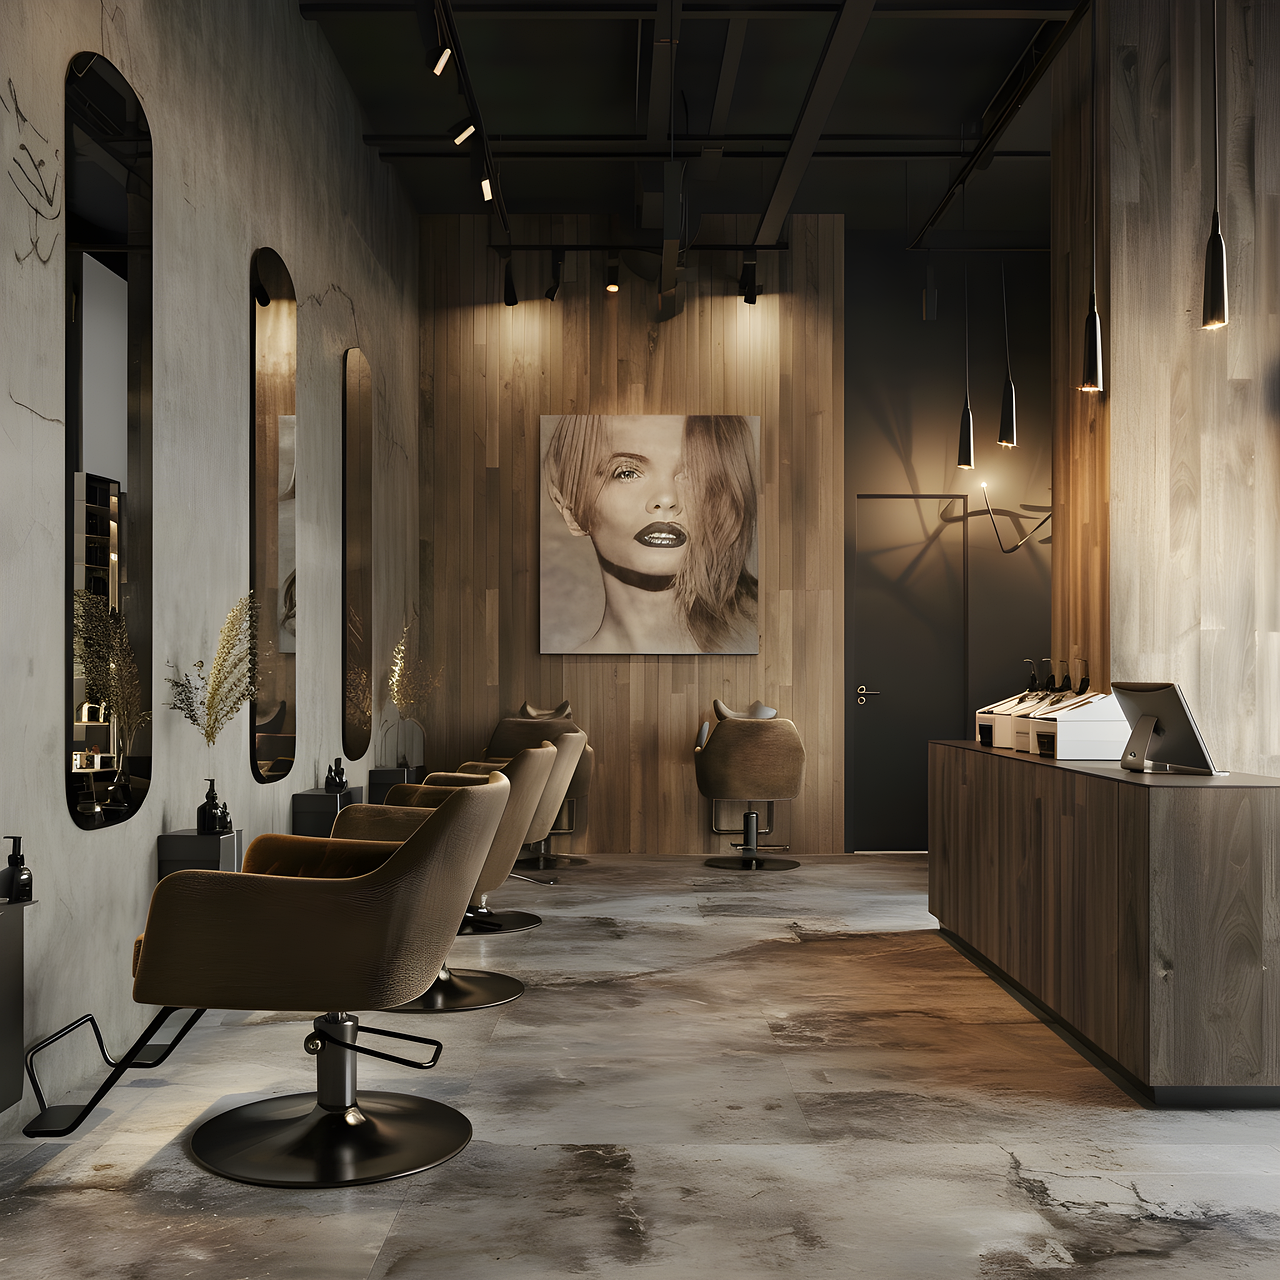
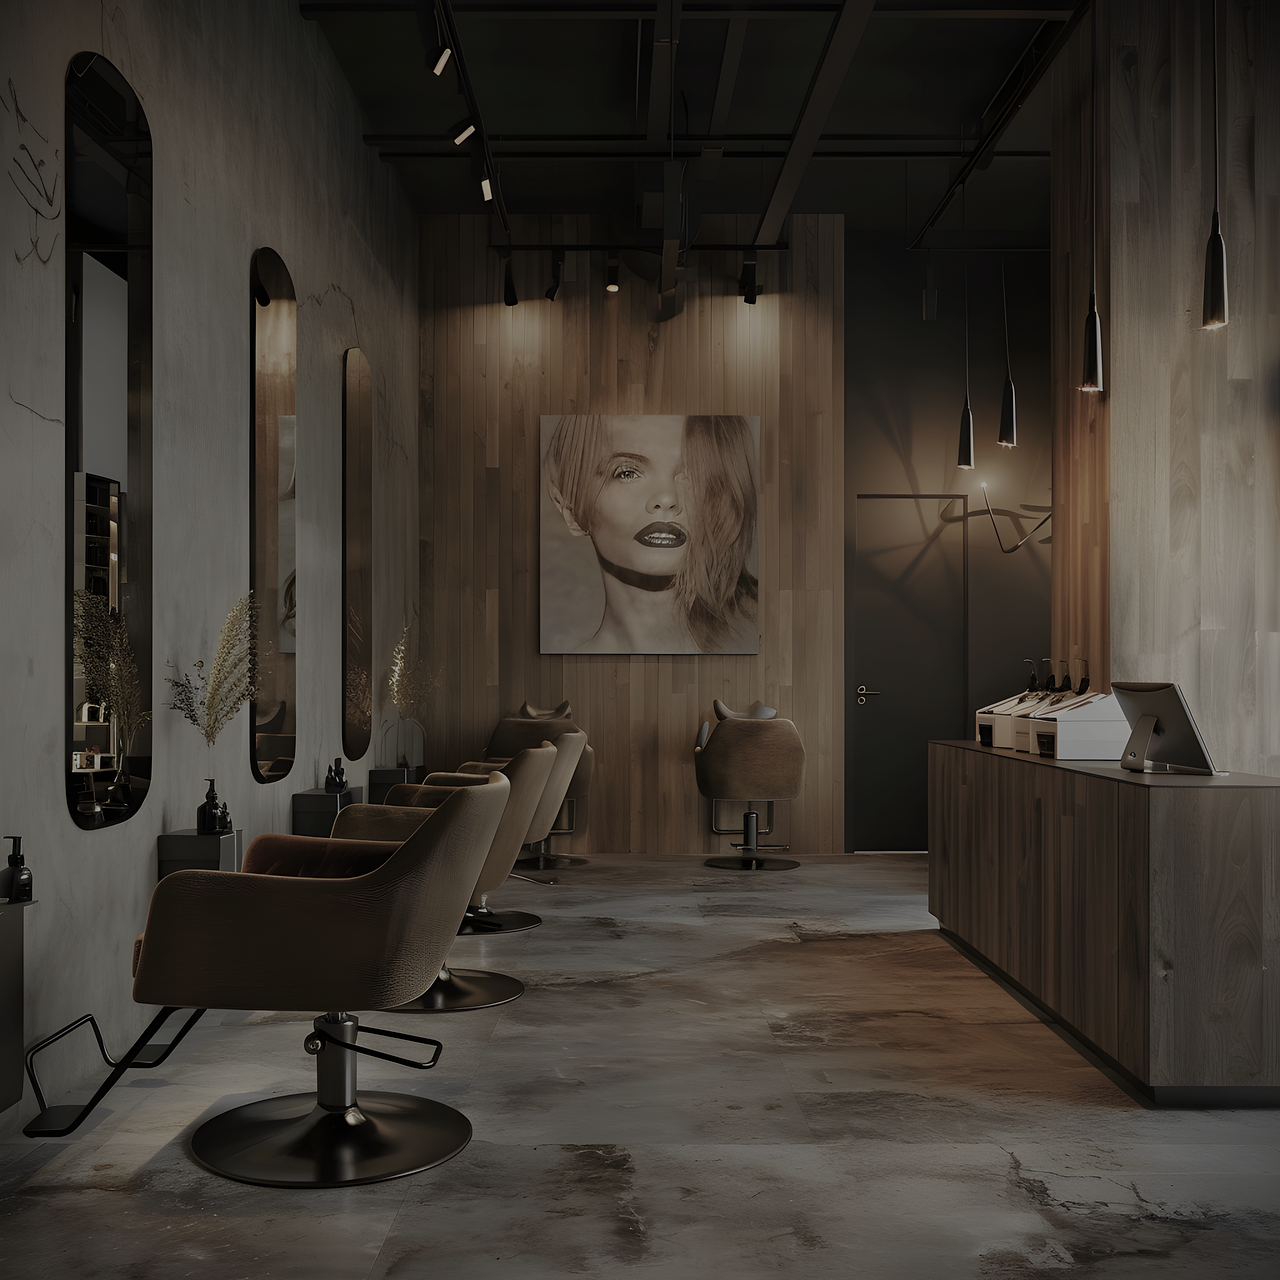
vecka 14
gjorde nästan klar domkyrakan

diff --git a/css/style.css b/css/style.css
@@ -17,7 +17,6 @@ header{
     background-color:rgb(0, 0, 0,0);
     height: 6vh;
     
-    top: 0;
     z-index: 9;
     position:fixed;
     transition: background-color 0.3s ease-in-out;
@@ -40,7 +39,7 @@ header{
     font-size:min(30vw,15vh);
     font-family:Verdana, Geneva, Tahoma, sans-serif;
 }
-.title > *{margin:0px;}
+.title > *{margin:0px; color: rgb(240, 248, 255,0.5)}
 .title > .placename {position: absolute; margin: auto auto auto 25vw; font-size: 7vw;}
 
 .menu{
@@ -64,10 +63,21 @@ header{
     background: rgb(0, 0, 0,0.5);
 }
 
-p{font-family:'inter';}
+p{font-family:'inter'; color: rgb(235, 220, 205);}
 a{color: inherit;text-decoration: none;}
 hr{width: 92vw; border:none;border-top: burlywood dashed 2px;}
 
+.oppentider{
+    grid-area: opp;
+    background-color: #2c2c2c;
+    display: flex;
+    flex-direction: column;
+    align-items: center;
+    justify-content: space-between;
+    height:auto;
+}
+.oppentider > .larger{margin: 0px;}
+.oppentider > div{display: flex; justify-content: space-between;}
 
 footer{
     grid-area: fot;
@@ -87,6 +97,7 @@ footer{
 .larger{
     font-weight: bolder;
     display: block;
+    text-align: center;
 }
 
 .darkbg{
@@ -118,7 +129,7 @@ footer{
     "tit"
     "sal"
     "inf"
-    "tim"
+    "opp"
     "fot";
 }
 
@@ -132,7 +143,6 @@ footer{
 .salong{
     background-position: center;
     background-size: cover;
-    color: antiquewhite;
     display: flex;
     align-items: center;
     flex-direction: column;
@@ -165,22 +175,9 @@ footer{
     width: 30vw;
     margin: 0vw 3vw 0vw 3vw;
     font-size: 15px;
-    color: rgb(235, 220, 205);
 }
 
 
-#indexoppentider{
-    color: rgb(235, 220, 205);
-    grid-area: tim;
-    background-color: #2c2c2c;
-    display: flex;
-    flex-direction: column;
-    align-items: center;
-    justify-content: space-between;
-    height:auto;
-}
-#indexoppentider > .larger{margin: 0px;}
-#indexoppentider > div{display: flex; justify-content: space-between;}
 
 
 /* domkyrkan */
@@ -191,33 +188,43 @@ footer{
     "tit"
     "pinf"
     "pep"
+    "hit"
+    "opp"
     "fot";
     font-family:Verdana, Geneva, Tahoma, sans-serif;
 }
 
 #domkyrkantitle{background-image: url(/img/iffany-hairdressers-8848868_1280.png);}
+#domkyrkantitle > .placename {position: absolute; }
 
 .platsinfo{
     grid-area: pinf;
     display: flex;
     align-items: center;
-    justify-content: space-evenly;
-    color:rgb(235, 220, 205);
+    justify-content: space-between;
     height: auto;
 }
-
-
+.platsinfo > img{box-shadow: rgba(0, 0, 0, 0.35) 0px 5px 15px;}
+.platsinfo > div{display:flex; flex-direction: column; align-items: center; font-size: 13px;}
+.platsinfo > div > .larger{margin-bottom: 5px;}
+.platsinfo > div > div{text-align: center;}
+.platsinfo > div > div > p{font-size: 22px;}
+.platsinfo > div > div > div{display: flex; justify-content: space-between; margin-top: -30px;}
 
 .personer{
     grid-area: pep;
     background-color:#2c2c2c;
 }
 
-.personer > div{background-color: #4a4a4a; margin: 10px;height: 100px;}
-.personer > div > div {}
-.personer > div > img{}
+.hittahit{
+    grid-area: hit;
+}
 
 
+.hittahit > img{}
+.hittahit > div{}
+
+iframe{width: 30vw; height: 20vw; display: block;}
 
 
 /* ---MOBILE--- */
@@ -229,6 +236,7 @@ footer{
     .menubutton{display:block;}
     .menu{display: block;}
     .title{justify-content: center; height: 95vh;font-size: 3.7vw;align-items: center;}
+    .oppentider > div{font-size: 15px; width: 80vw;}
     
     
     /* INDEX */
@@ -239,20 +247,20 @@ footer{
     #indexinfobox > div > div{width: 90%;font-size: 15px;}
     #indexinfobox >div> img{width: 80vw; margin-top: 2.5vw;} /*images för indexinfo*/
     #flip{flex-direction: column;}
-    #indexoppentider > div{font-size: 15px; width: 80vw;}
     
     /* Domkyrkan */
-    #domkyrkantitle > .placename {position: absolute; margin: auto auto 4% auto; font-size: 10vw;}
+    #domkyrkantitle > .placename {margin: auto auto 4% auto; font-size: 10vw;}
     
-    .platsinfo{flex-direction: column; padding: 25vw 0px 10vw 0px;}
-    .platsinfo > img{width: 90vw; height: auto;}
-    .platsinfo > div{display:flex; flex-direction: column; align-items: center; width: 85vw; font-size: 13px;}
-    .platsinfo > div > .larger{margin-bottom: 5px;}
-    .platsinfo > div > div{width: 80vw; text-align: center;}
-    .platsinfo > div > div > p{font-size: 22px;}
-    .platsinfo > div > div > div{display: flex; justify-content: space-between; margin-top: -30px;}
-    
-    
+    .platsinfo{flex-direction: column; padding: 22vw 0px 10vw 0px;}
+    .platsinfo > img{width: 90vw; height: auto; box-shadow: rgba(0, 0, 0, 0.35) 0px 5px 15px;}
+    .platsinfo > div{width: 85vw;}
+    .platsinfo > div > div{width: 80vw;}    
+
+    .personer > div{background-color: #4a4a4a; width:min-content; margin: 15vw auto 15vw auto; padding: 2.5vw 0vh 2.5vw 0vh; display: flex;flex-direction: column; justify-content: space-between; align-items: center;}
+    .personer > div > div {width: 85vw; margin:0px 2vw 0px 2vw; font-size: 15px;}
+    .personer > div > img{width: 85vw;}
+
+
 }
 
 
@@ -266,6 +274,8 @@ footer{
     .title{height: 95vh;justify-content: center;align-items: center;}
     .title > p{font-size:25px;margin-top: -30px;}
     .title > *{margin-right: 55vw}
+    .oppentider > div{font-size:max(1vw,15px); width: 30vw;}
+    .oppentider > a >*{margin: 2.5vw 0px 0px 0px;}
     
     
     /* index */
@@ -275,19 +285,18 @@ footer{
     #indexinfobox>div{padding: 2.5vw 0vh 2.5vw 5vh;}
     #indexinfobox >div> img{width: 45vw;} /*images för indexinfo*/
     #flip{flex-direction: row-reverse;padding: 2.5vw 5vh 2.5vw 0vh !important;}
-    #indexoppentider > div{font-size:max(1vw,15px); width: 30vw;}
-    #indexoppentider > a >*{margin: 2.5vw 0px 0px 0px;}
 
     /* Domkyrkan */
-    #domkyrkantitle > .placename {position: absolute; margin: auto auto auto 25vw; font-size: 7vw;}
+    #domkyrkantitle > .placename {margin: auto auto auto 25vw; font-size: 7vw;}
     
-    .platsinfo{flex-direction: row;}
-    .platsinfo > img{width: 40vw; height: auto;}
-    .platsinfo > div{display:flex; flex-direction: column; align-items: center; width: 85vw; font-size: 13px;}
-    .platsinfo > div > .larger{margin-bottom: 5px;}
-    .platsinfo > div > div{width: 80vw; text-align: center;}
-    .platsinfo > div > div > p{font-size: 22px;}
-    .platsinfo > div > div > div{display: flex; justify-content: space-between; margin-top: -30px;}
+    .platsinfo{flex-direction: row; padding: 4vw 0px 4vw 0px;}
+    .platsinfo > img{width: auto; height: 30vw; margin-left: 4vw;}
+    .platsinfo > div{width:30vw; margin-right: 10vw}
+    .platsinfo > div > div{width: 100%;}
+
+    .personer > div{background-color: #4a4a4a; width:min-content; margin: 3vw auto 3vw auto; padding: 2.5vw 0vh 2.5vw 5vh; display: flex; justify-content: space-between;}
+    .personer > div > div {width: 25vw; margin:0px 2.5vw 0px 2.5vw; font-size: 15px;}
+    .personer > div > img{width: 35vw;}
 
 }
 

diff --git a/domkyrkan.html b/domkyrkan.html
@@ -26,7 +26,7 @@
     <section class="platsinfo">
         <img src="img/100683.jpg" alt="">
         <div>
-            <p class="larger">TOFA Domkyrkan</p><p>Lorem ipsum dolor sit  odio non perspiciatis veritatis magnam soluta temporibus officia deleniti placeat voluptatum nemo, aspernatur dolorum illo! Eum necessitatibus obcaecati quo totam aperiam minus animi porro soluta ducimus dolor adipisci est repellat, nesciunt deleniti sint facere fuga?</p>
+            <p class="larger">TOFA Domkyrkan</p><p>Lorem ipsum dolor sit amet consectetur adipisicing elit. Quos eos nostrum voluptates, nisi qui eveniet nobis id eum fuga ab aliquam similique quaerat, nemo vero, autem sunt accusantium iusto? Minus itaque id ipsam? Ex minima ratione ab hic. Sequi, ad!Lorem ipsum dolor sit  odio non perspiciatis veritatis magnam soluta temporibus officia deleniti placeat voluptatum nemo, aspernatur dolorum illo! Eum necessitatibus obcaecati quo totam aperiam minus animi porro soluta ducimus dolor adipisci est repellat, nesciunt deleniti sint facere fuga?</p>
             <div>
                 <p>Öppentider</p>
                 <div>
@@ -34,7 +34,7 @@
                 </div>
                 <p>Kontakta</p>
                 <div>
-                  <p>Telefon<br>Email</p> <p>&nbsp&nbsp&nbsp&nbsp&nbsp 076 035 75 75 <br><a href="">[email redacted]</a></p>
+                  <p>Telefon<br>Email</p> <p>&nbsp&nbsp&nbsp&nbsp&nbsp +46 76 035 78 78 <br><a href="">[email redacted]</a></p>
                 </div>
             </div>
             <a href=""><p class="button">boka tid</p></a>
@@ -43,27 +43,51 @@
     
     <section class="personer">
         <div>
-            <img src="" alt="">
-            <div>Karlson</div>
+            <img src="img/person1.jpg" alt="person som jobbar här">
+            <div><p class="larger">Katarina</p><p>Lorem ipsum dolor sit amet consectetur adipisicing elit. Aperiam molestiae cupiditate earum? Hic inventore perspiciatis adipisci autem dolor repudiandae tenetur fugiat veritatis aut. Nulla officiis ipsum obcaecati temporibus beatae quaerat in labore, itaque eum perspiciatis, eos doloribus, exercitationem qui hic corrupti ipsam error quod quis dicta eligendi eius voluptas cupiditate?</p></div>
         </div>
         <div>
-            <img src="" alt="">
-            <div>Katarina</div>
+            <img src="img/person2.jpg" alt="person som jobbar här">
+            <div><p class="larger">Karson</p><p>Lorem ipsum dolor sit amet consectetur adipisicing elit. Aperiam molestiae cupiditate earum? Hic inventore perspiciatis adipisci autem dolor repudiandae tenetur fugiat veritatis aut. Nulla officiis ipsum obcaecati temporibus beatae quaerat in labore, itaque eum perspiciatis, eos doloribus, exercitationem qui hic corrupti ipsam error quod quis dicta eligendi eius voluptas cupiditate?</p></div>
         </div>
         <div>
-            <img src="" alt="">
-            <div>Chalot</div>
+            <img src="img/person3.jpg" alt="person som jobbar här">
+            <div><p class="larger">Chalot</p><p>Lorem ipsum dolor sit amet consectetur adipisicing elit. Aperiam molestiae cupiditate earum? Hic inventore perspiciatis adipisci autem dolor repudiandae tenetur fugiat veritatis aut. Nulla officiis ipsum obcaecati temporibus beatae quaerat in labore, itaque eum perspiciatis, eos doloribus, exercitationem qui hic corrupti ipsam error quod quis dicta eligendi eius voluptas cupiditate?</p></div>
         </div>
         <div>
-            <img src="" alt="">
-            <div>Alfons</div>
+            <img src="img/person4.jpg" alt="person som jobbar här">
+            <div><p class="larger">Lina</p><p>Lorem ipsum dolor sit amet consectetur adipisicing elit. Aperiam molestiae cupiditate earum? Hic inventore perspiciatis adipisci autem dolor repudiandae tenetur fugiat veritatis aut. Nulla officiis ipsum obcaecati temporibus beatae quaerat in labore, itaque eum perspiciatis, eos doloribus, exercitationem qui hic corrupti ipsam error quod quis dicta eligendi eius voluptas cupiditate?</p></div>
         </div>    
         <div>
-            <img src="" alt="">
-            <div>Smilla</div>
+            <img src="img/person5.jpg" alt="person som jobbar här">
+            <div><p class="larger">Smilla</p><p>Lorem ipsum dolor sit amet consectetur adipisicing elit. Aperiam molestiae cupiditate earum? Hic inventore perspiciatis adipisci autem dolor repudiandae tenetur fugiat veritatis aut. Nulla officiis ipsum obcaecati temporibus beatae quaerat in labore, itaque eum perspiciatis, eos doloribus, exercitationem qui hic corrupti ipsam error quod quis dicta eligendi eius voluptas cupiditate?</p></div>
         </div>
     </section>
 
+    <section class="hittahit">
+        <p class="larger">Hitta hit!</p>
+        <iframe style="-webkit-filter: grayscale(100%);filter: grayscale(75%);"frameborder="0" scrolling="no" marginheight="0" marginwidth="0" src="https://maps.google.com/maps?width=100%25&amp;height=600&amp;hl=en&amp;q=Kyrkogatan%2024,%20411%2015%20G%C3%B6teborg,%20+(TOFA)&amp;t=&amp;z=14&amp;ie=UTF8&amp;iwloc=B&amp;output=embed"><a href="https://www.mapsdirections.info/pl/mapa-populacji/">kalkulator liczby ludności na mapie</a></iframe>
+        <img src="" alt="">
+        <div></div>
+    </section>
+
+    <section class="oppentider">
+        <p class="larger"><br><br>Öppentider</p>
+        <div>
+            <p>Mån - Fre<br>Lördag</p> <p>09:00 - 20:00 <br>09:00 - 18:00</p>
+        </div>
+        <p class="larger">Kontakta</p>
+        <div>
+            <p>Telefon<br>Email</p> <p>&nbsp&nbsp&nbsp&nbsp&nbsp +46 76 035 78 78 <br><a href="">[email redacted]</a></p>
+        </div>
+        <a href=""><p class="button">boka tid</p></a>
+    </section>
+
+    <footer>
+        <hr>
+        <p>Hur var din upplevelse?</p>
+        <p><a href="" class="button">Lämna en Recension</a></p>
+    </footer>
 
     <script src="js/main.js"></script>
 </body>

diff --git a/index.html b/index.html
@@ -29,7 +29,7 @@
   <section class="title" id="indextitle"><h1>TO<br>FA</h1><p>Porfesional Hairdresing</p></section>
   
   <section id="salonger">
-    <div class="salong" id="salong1"><p class="larger darkbg">Domkryrkan</p><a href=""><p class="button">boka tid</p></a><a href=""><p class="button">läss mer</p></a><a href="https://www.google.com/maps/place/Sing+Sing+Karaoke+G%C3%B6teborg/@57.7040791,11.9636698,291m/data=!3m1!1e3!4m10!1m2!2m1!1skaraoke!3m6!1s0x464ff34da68a4f49:0x9022714916c847eb!8m2!3d57.7039373!4d11.9635159!15sCgdrYXJhb2tlWgkiB2thcmFva2WSAQtrYXJhb2tlX2JhcpoBI0NoWkRTVWhOTUc5blMwVkpRMEZuU1VSV09EZHVaVVpCRUFF4AEA-gEFCMcBEDE!16s%2Fg%2F11tfbc_tyj?entry=ttu&g_ep=EgoyMDI2MDIxOC4wIKXMDSoASAFQAw%3D%3D"><p>Kungsgatan 25, 411 19 Göteborg</p></a></div>
+    <div class="salong" id="salong1"><p class="larger darkbg">Domkryrkan</p><a href=""><p class="button">boka tid</p></a><a href="domkyrkan.html"><p class="button">läss mer</p></a><a href="https://www.google.com/maps/place/Sing+Sing+Karaoke+G%C3%B6teborg/@57.7040791,11.9636698,291m/data=!3m1!1e3!4m10!1m2!2m1!1skaraoke!3m6!1s0x464ff34da68a4f49:0x9022714916c847eb!8m2!3d57.7039373!4d11.9635159!15sCgdrYXJhb2tlWgkiB2thcmFva2WSAQtrYXJhb2tlX2JhcpoBI0NoWkRTVWhOTUc5blMwVkpRMEZuU1VSV09EZHVaVVpCRUFF4AEA-gEFCMcBEDE!16s%2Fg%2F11tfbc_tyj?entry=ttu&g_ep=EgoyMDI2MDIxOC4wIKXMDSoASAFQAw%3D%3D"><p>Kungsgatan 25, 411 19 Göteborg</p></a></div>
     <div class="salong" id="salong2"><p class="larger darkbg">Johanneberg</p><a href=""><p class="button">boka tid</p></a><a href=""><p class="button">läss mer</p></a><a href="https://www.google.com/maps/place/NTI+Gymnasiet+Johanneberg/@57.6906657,11.9744042,174m/data=!3m1!1e3!4m6!3m5!1s0x464ff30cb0e6c031:0x512e1a3cb4192a9!8m2!3d57.6905167!4d11.9747806!16s%2Fg%2F1hc1wx3vr?entry=ttu&g_ep=EgoyMDI2MDIxOC4wIKXMDSoASAFQAw%3D%3D"><p>Origovägen 4, 412 58 Göteborg</p></a></div></div>
   </section>
   
@@ -46,7 +46,7 @@
     <hr>
   </section>
   
-  <section id="indexoppentider">
+  <section class="oppentider">
     <p class="larger">Öppentider</p>
     <div>
       <p>Mån - Fre<br>Lördag</p> <p>09:00 - 20:00 <br>09:00 - 18:00</p>